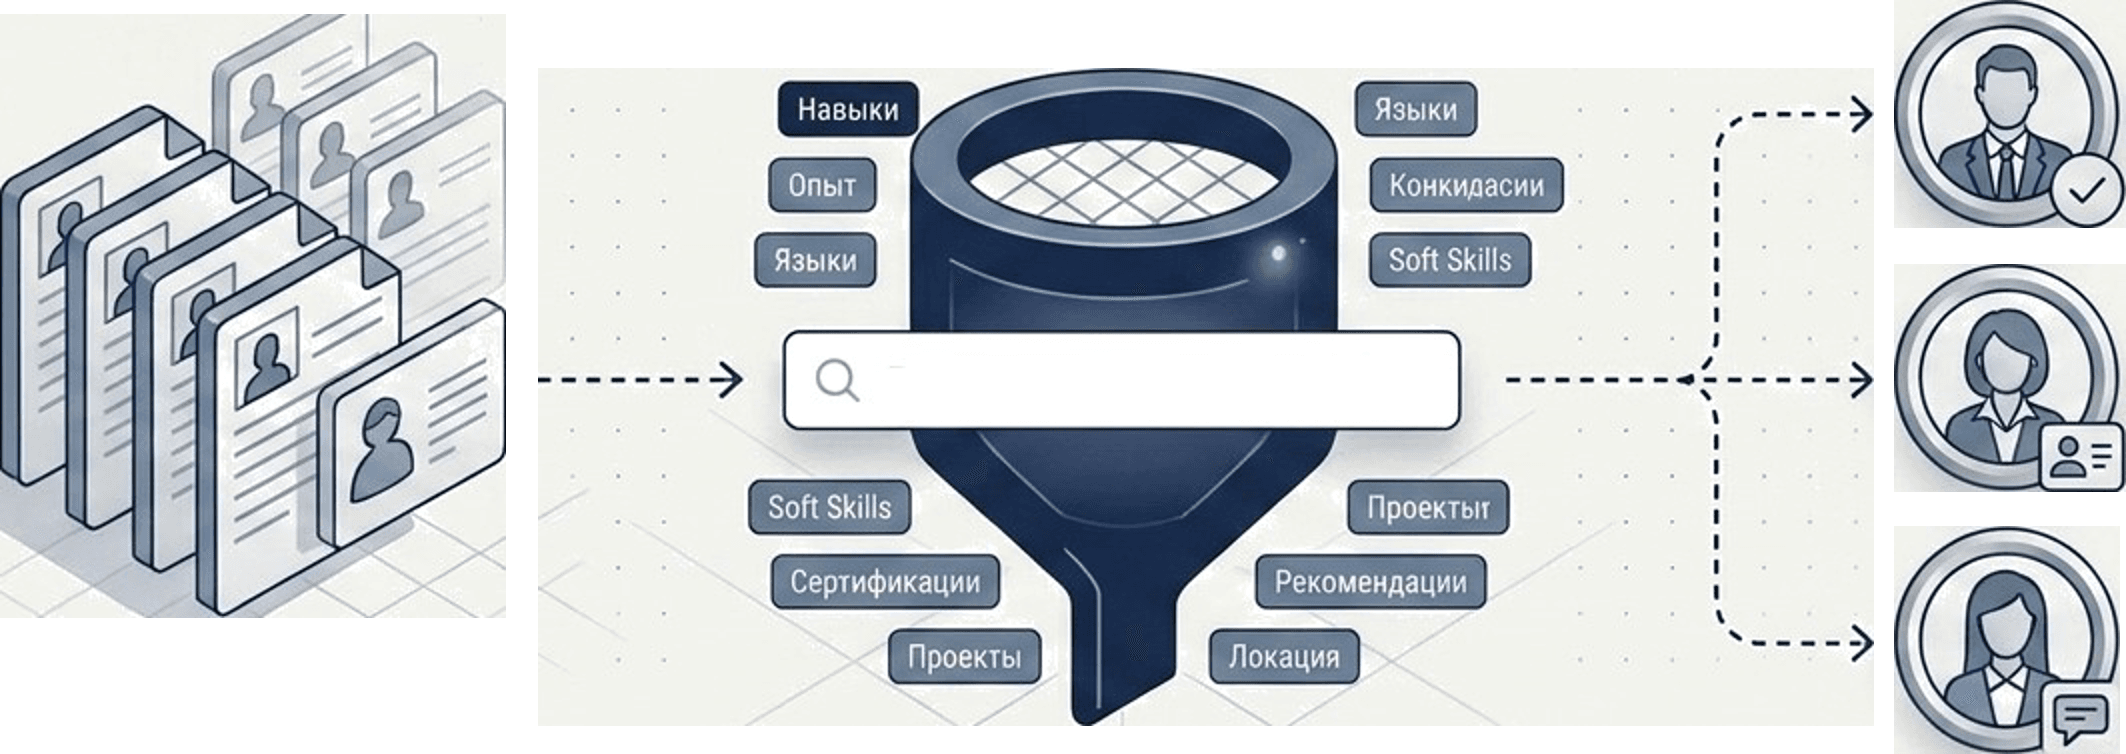
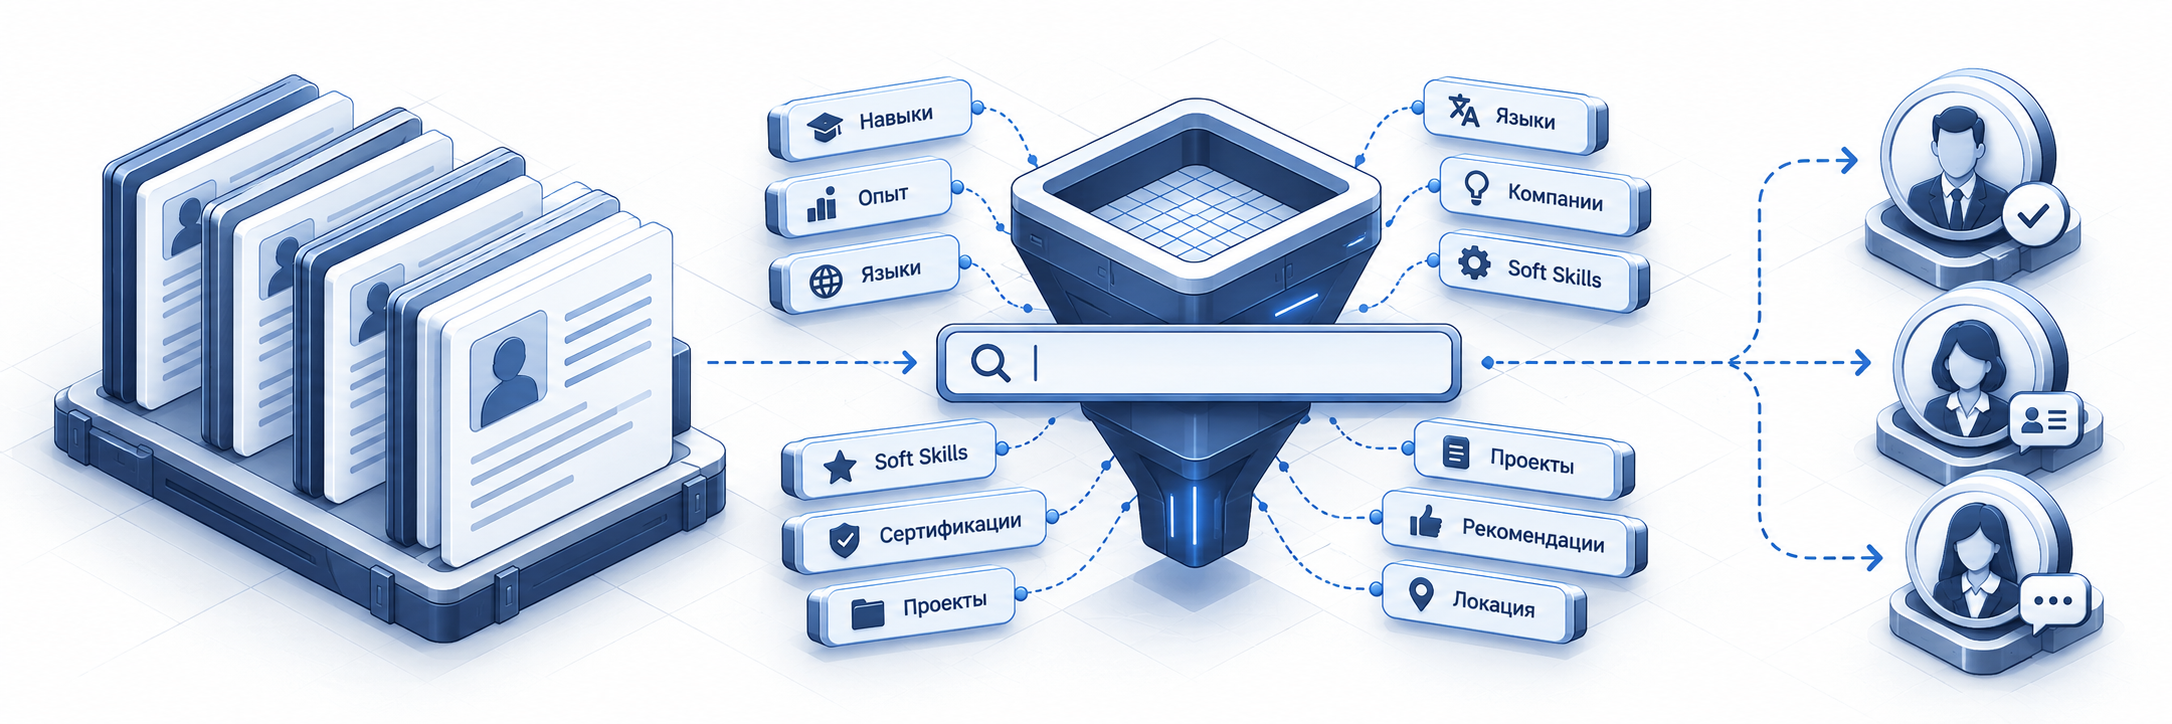
Update code

diff --git a/imports/index.tsx b/imports/index.tsx
@@ -1828,14 +1828,12 @@ function Group6() {
           src={imgImage55}
         />
       </div>
-      <div className="[word-break:break-word] col-1 flex flex-col font-['IBM_Plex_Sans:Regular',sans-serif] font-normal h-[93px] justify-center ml-[843px] mt-[0.5px] not-italic relative row-1 text-[#0d0f16] text-[16px] text-center w-[265px]">
-        <p className="leading-[normal] mb-0">
-          governance.kz — создание сложных
-        </p>
-        <p className="leading-[normal] mb-0">ИИ-продуктов на базе доступных</p>
-        <p className="leading-[normal]">вычислительных мощностей.</p>
+      <div className="[word-break:break-word] col-1 flex flex-col font-['IBM_Plex_Sans:Regular',sans-serif] font-normal h-[56px] justify-center ml-[830px] mt-[18px] not-italic relative row-1 text-[#0d0f16] text-[14px] text-center w-[260px]">
+        <p className="leading-[normal] mb-0">governance.kz — сложные</p>
+        <p className="leading-[normal] mb-0">ИИ-продукты на доступных</p>
+        <p className="leading-[normal]">вычислительных мощностях</p>
       </div>
-      <div className="[word-break:break-word] col-1 flex flex-col font-['IBM_Plex_Sans:Regular',sans-serif] font-normal h-[100px] justify-center ml-[130px] mt-[111.5px] not-italic relative row-1 text-[#3a4050] text-[20px] w-[552px] whitespace-pre-wrap">
+      <div className="[word-break:break-word] col-1 flex flex-col font-['IBM_Plex_Sans:Regular',sans-serif] font-normal h-[100px] justify-center ml-[78px] mt-[99px] not-italic relative row-1 text-[#3a4050] text-[20px] w-[552px] whitespace-pre-wrap">
         <p className="leading-[normal] mb-0">{`«Будущее инноваций и ИИ упирается в `}</p>
         <p className="leading-[normal]">энергию и вычислительные мощности.»</p>
       </div>
@@ -1843,7 +1841,7 @@ function Group6() {
         className="col-1 h-[68.247px] ml-0 mt-[161.62px] relative row-1 w-[627.918px]"
         data-name="Rectangle"
       />
-      <div className="[word-break:break-word] col-1 flex flex-col font-['IBM_Plex_Sans:Regular',sans-serif] font-normal h-[68px] justify-center ml-[83px] mt-[229.5px] not-italic relative row-1 text-[#3a4050] text-[20px] w-[305px]">
+      <div className="[word-break:break-word] col-1 flex flex-col font-['IBM_Plex_Sans:Regular',sans-serif] font-normal h-[68px] justify-center ml-[59px] mt-[215px] not-italic relative row-1 text-[#3a4050] text-[20px] w-[305px]">
         <p className="leading-[normal] mb-0">Передовая экосистема eGov,</p>
         <p className="leading-[normal]">суперкомпьютеры, ЦОДы.</p>
       </div>
@@ -1851,17 +1849,12 @@ function Group6() {
         className="col-1 h-[120.332px] ml-0 mt-[359.44px] relative row-1 w-[504.237px]"
         data-name="Rectangle"
       />
-      <div className="[word-break:break-word] col-1 flex flex-col font-['IBM_Plex_Sans:Regular',sans-serif] font-normal h-[79px] justify-center ml-[40px] mt-[362.5px] not-italic relative row-1 text-[#3a4050] text-[20px] w-[463px]">
+      <div className="[word-break:break-word] col-1 flex flex-col font-['IBM_Plex_Sans:Regular',sans-serif] font-normal h-[88px] justify-center ml-[16px] mt-[297px] not-italic relative row-1 text-[#3a4050] text-[20px] w-[463px]">
         <p className="leading-[normal] mb-0">Дешевая электроэнергия,</p>
         <p className="leading-[normal] mb-0">запасы редкоземельных металлов</p>
         <p className="leading-[normal]">
           (кремний, литий), критичные для вычислений.
         </p>
-      </div>
-      <div className="[word-break:break-word] col-1 flex flex-col font-['IBM_Plex_Sans:SemiBold',sans-serif] font-semibold h-[72.394px] justify-center ml-[694.47px] mt-[149.84px] not-italic relative row-1 text-[#0d0f16] text-[20px] text-center w-[119.534px] whitespace-pre-wrap">
-        <p className="leading-[normal] mb-0">{`Технологии `}</p>
-        <p className="leading-[normal] mb-0">{`&`}</p>
-        <p className="leading-[normal]">Продукты</p>
       </div>
     </div>
   )
@@ -2303,7 +2296,7 @@ function HorizontalBorder10() {
             </span>
           </button>
           {showFoundation && (
-            <div className="mt-[20px] w-full max-w-[720px] overflow-hidden rounded-[16px] border border-[#e6e8ee] bg-white">
+            <div className="relative left-1/2 mt-[20px] w-screen max-w-[1600px] -translate-x-1/2 overflow-hidden rounded-[16px] border border-[#e6e8ee] bg-white">
               <img
                 src={imgImage56}
                 alt="Стратегический фундамент"

diff --git a/src/synthetic-research/SyntheticResearchSection.tsx b/src/synthetic-research/SyntheticResearchSection.tsx
@@ -423,8 +423,8 @@ export default function SyntheticResearchSection({
         <div className="mt-[24px] flex flex-col lg:flex-row items-center lg:items-start gap-[36px]">
           <div className="w-full lg:flex-1 min-w-0">
             <img
-              src="/graphics/data-flow-ai-filtering.png"
-              alt="Схема потока данных и ИИ-фильтрации"
+              src="/graphics/ai-robot.png"
+              alt="ИИ-робот"
               className="block w-full h-auto"
               loading="lazy"
             />

diff --git a/src/synthetic-research/ModelingPage.tsx b/src/synthetic-research/ModelingPage.tsx
@@ -258,8 +258,8 @@ export default function ModelingPage({
 
             <div className="mt-[20px] w-full max-w-[880px] mx-auto">
               <img
-                src="/graphics/data-flow-ai-filtering.png"
-                alt="Схема потока данных и ИИ-фильтрации"
+                src="/graphics/ai-robot.png"
+                alt="ИИ-робот"
                 className="block w-full h-auto"
                 loading="lazy"
               />
